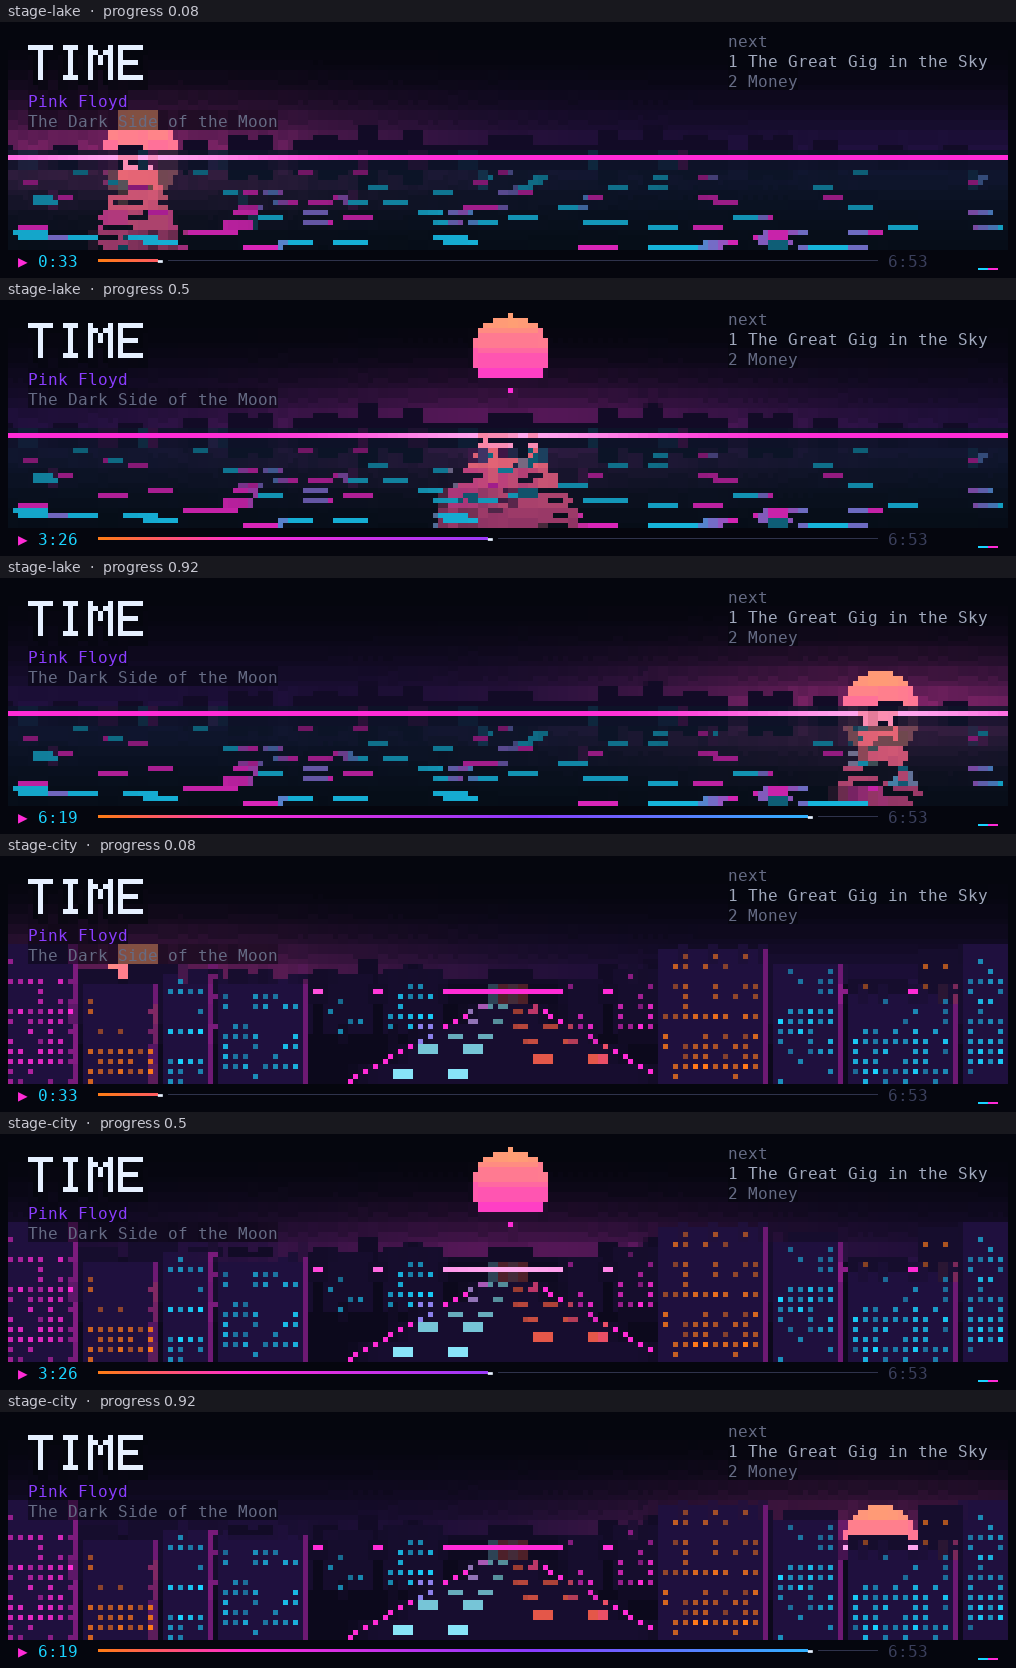
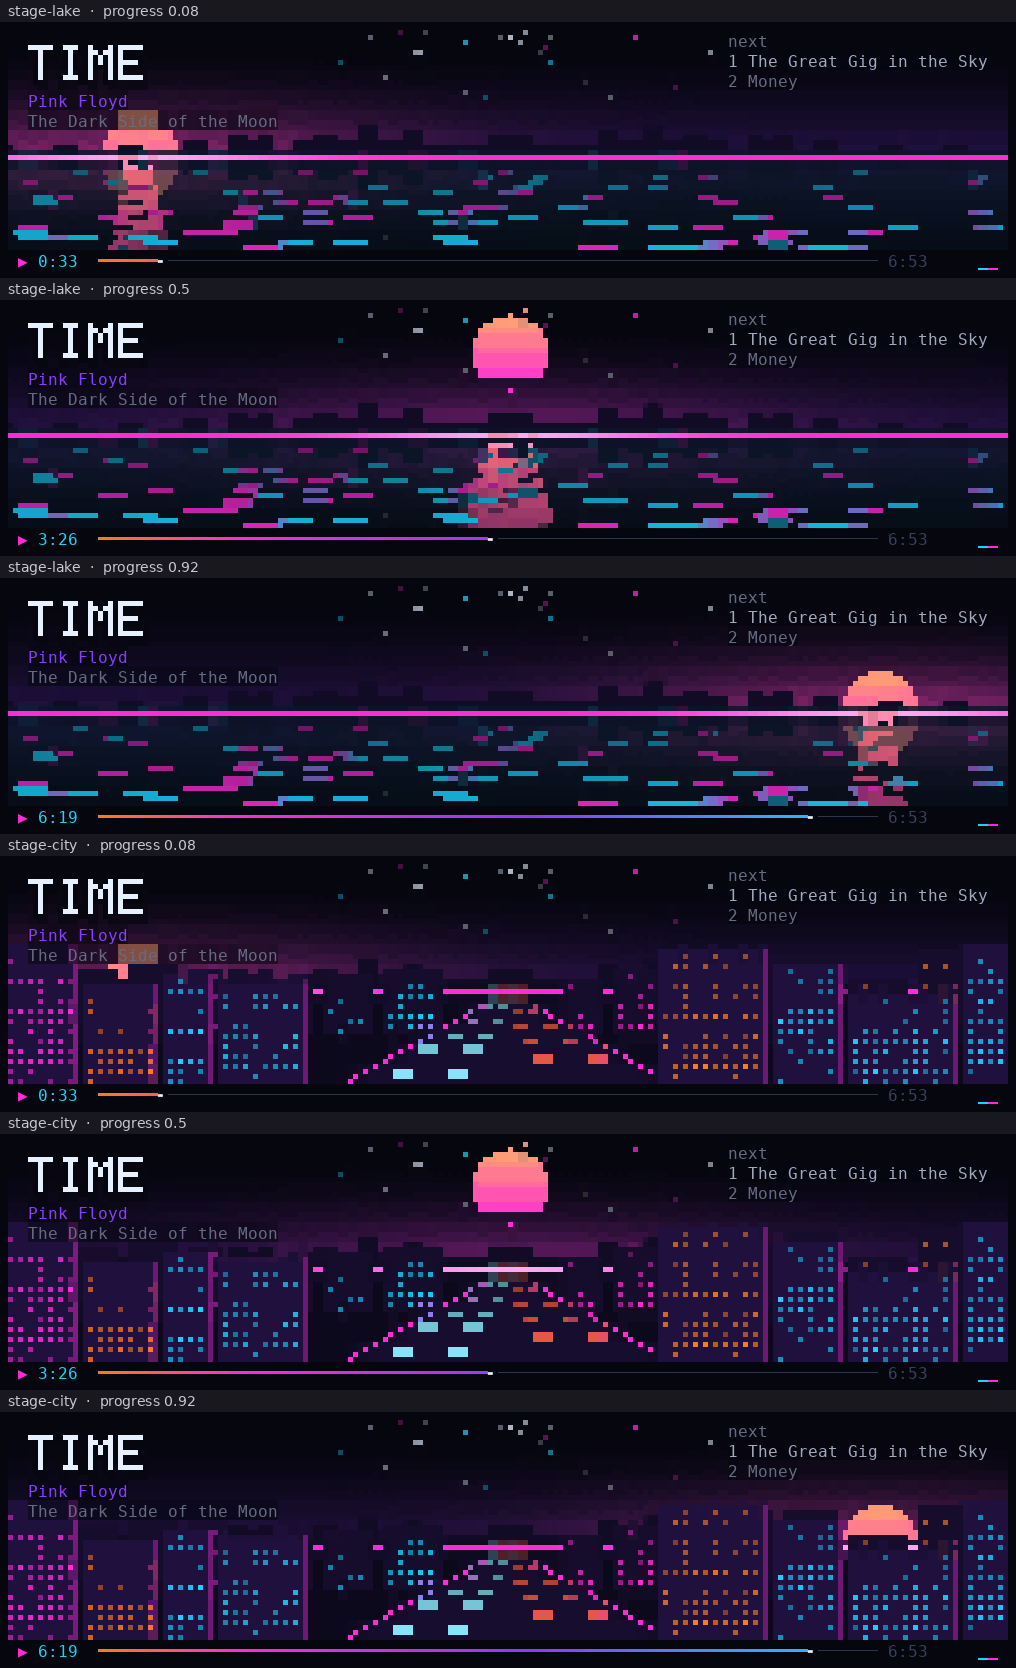
Sketches: stage, the lake, tall
The lake is the ground. Tall, the title grows with the stage (a font dot
n x n dots, n = rows / 11, 1 to 4), stars twinkle in the dark upper sky
clear of the words and the sun, and the sun's column on the water stays
narrow. Rendered at 20x100, 30x120 and 45x160.

Claude-Session: https://claude.ai/code/session_01TZXgEMdNRWFEXZ2qesZS2k

diff --git a/sketches/sketch.c b/sketches/sketch.c
@@ -612,6 +612,9 @@ static float n2(int a, int b) { return hash(a * 7919 + b * 104729 + 17); }
 
 /* The scene above the ground: sky, the sun on its arc, mountains, the
  * horizon. Returns through *sx, *sy, *r where the sun is. */
+/* where the words are, in cells, for the stars to keep clear of */
+static int clear_rows, clear_left, clear_right;
+
 static void stage_sky(uint32_t *pix, int W, int hz, float p, float k, int f, float *psx, float *psy, float *pr)
 {
 	/* the sun's arc: rising at the left as the track starts, highest half
@@ -638,6 +641,16 @@ static void stage_sky(uint32_t *pix, int W, int hz, float p, float k, int f, flo
 			}
 			pix[y * W + x] = px(scale(c, k), 255);
 		}
+	/* stars, in the dark upper sky, twinkling; none in front of the sun */
+	for (int i = 0; i < W * hz / 90; i++) {
+		int x = (int)(n2(i, 1) * (float)W), y = (int)(n2(i, 2) * n2(i, 3) * (float)hz * 0.75f);
+		float ddx = ((float)x - sx) / 2.0f, ddy = (float)y - sy;
+		if (ddx * ddx * 4.0f + ddy * ddy <= r * r * 1.3f) continue;
+		if (y / 4 <= clear_rows && (x / 2 <= clear_left + 1 || x / 2 >= clear_right - 1)) continue;
+		float tw = 0.5f + 0.5f * sinf((float)f * (0.2f + 0.5f * n2(i, 4)) + 6.28f * n2(i, 5));
+		struct rgb c = n2(i, 6) > 0.8f ? CYAN : n2(i, 6) > 0.6f ? MAGENTA : FG;
+		pix[y * W + x] = px(scale(mix(BG, c, (0.25f + 0.55f * tw) * (1.0f - (float)y / (float)hz)), 1.0f), 255);
+	}
 	for (int x = 0; x < W; x++) { /* mountains: the bands, about the sun, a silhouette */
 		float d = fabsf((float)x - (float)W * 0.5f) / ((float)W * 0.5f);
 		int b = (int)(d * 23.0f);
@@ -676,7 +689,7 @@ static void ground_lake(uint32_t *pix, int W, int H, int hz, float sx, float sy,
 		/* the sun's column: streaks of its colour, broken by the waves */
 		if (sy - r < (float)hz) {
 			float above = ((float)hz - (sy - r)) / (2 * r); /* how much of it is up */
-			float w = r * (0.5f + 1.6f * u) * (above > 1 ? 1 : above);
+			float w = r * (0.45f + 0.75f * u) * (above > 1 ? 1 : above);
 			for (int x = (int)(sx - w); x <= (int)(sx + w); x++) {
 				if (x < 0 || x >= W) continue;
 				float on = n2(y, (int)((float)x / 3.0f + drift * (0.5f + u)));
@@ -780,9 +793,20 @@ static void stage_with(struct notcurses *nc, struct ncplane *std, struct ncplane
 	float p = getenv("STAGE_P") ? (float)atof(getenv("STAGE_P")) : progress(f);
 	float k = paused(f) ? 0.70f + 0.30f * breath(f) : 1.0f;
 	int W = (int)cols * 2, H = ((int)rows - 1) * 4;
+	/* the title grows with the stage: a font dot is sc x sc dots, a letter
+	 * 3sc cells by 2sc rows; the artist and album under it; the horizon
+	 * below all of the words */
+	int sc = (int)rows / 11;
+	if (sc < 1) sc = 1;
+	if (sc > 4) sc = 4;
+	int words = 2 * sc + 3; /* rows the words take */
 	int hz = (int)((float)H * 0.58f);
-	if (hz < 5 * 4 + 1) hz = 5 * 4 + 1;
+	if (hz < words * 4 + 1) hz = words * 4 + 1;
 	ncplane_erase(std);
+	clear_rows = words - 1;
+	clear_left = 2 + (int)strlen(STAGE_ALBUM) > 2 + 3 * sc * (int)strlen(STAGE_TITLE) ? 2 + (int)strlen(STAGE_ALBUM)
+	                                                                                  : 2 + 3 * sc * (int)strlen(STAGE_TITLE);
+	clear_right = (int)cols - 28;
 	uint32_t *pix = calloc((size_t)W * H, 4);
 	float sx, sy, r;
 	stage_sky(pix, W, hz, p, k, f, &sx, &sy, &r);
@@ -794,13 +818,14 @@ static void stage_with(struct notcurses *nc, struct ncplane *std, struct ncplane
 	for (int pass = 0; pass < 2; pass++)
 		for (const char *c = STAGE_TITLE; *c; c++) {
 			const unsigned char *g = glyph(*c);
-			int cx = tx + 6 * (int)(c - STAGE_TITLE);
+			int cx = tx + 6 * sc * (int)(c - STAGE_TITLE);
 			for (int gy = 0; gy < 7; gy++)
 				for (int gx = 0; gx < 5; gx++) {
 					if (!(g[gy] >> (4 - gx) & 1)) continue;
-					for (int oy = pass ? 0 : -1; oy <= (pass ? 0 : 1); oy++)
-						for (int ox = pass ? 0 : -1; ox <= (pass ? 0 : 1); ox++) {
-							int X = cx + gx + ox, Y = ty + gy + oy;
+					for (int oy = pass ? 0 : -1; oy <= (pass ? 0 : 1) + sc - 1 + (pass ? 0 : 0); oy++)
+						for (int ox = pass ? 0 : -1; ox <= (pass ? 0 : 1) + sc - 1; ox++) {
+							int X = cx + gx * sc + ox, Y = ty + gy * sc + oy;
+							if (pass && (ox >= sc || oy >= sc)) continue;
 							if (X >= 0 && Y >= 0 && X < W && Y < H) pix[Y * W + X] = px(pass ? FG : BG, 255);
 						}
 				}
@@ -817,9 +842,9 @@ static void stage_with(struct notcurses *nc, struct ncplane *std, struct ncplane
 	ncplane_set_bg_rgb8(txt, (unsigned)BG.r, (unsigned)BG.g, (unsigned)BG.b);
 	ncplane_set_bg_alpha(txt, NCALPHA_BLEND);
 	fg(txt, VIOLET);
-	ncplane_putstr_yx(txt, 3, 2, ARTIST);
+	ncplane_putstr_yx(txt, words - 2, 2, ARTIST);
 	fg(txt, mix(DIM, FG, 0.25f));
-	ncplane_printf_yx(txt, 4, 2, "%s", STAGE_ALBUM);
+	ncplane_printf_yx(txt, words - 1, 2, "%s", STAGE_ALBUM);
 	int nx = (int)cols - 28;
 	fg(txt, mix(DIM, FG, 0.25f));
 	ncplane_putstr_yx(txt, 0, nx, "next");

diff --git a/sketches/README.md b/sketches/README.md
@@ -47,7 +47,17 @@ has both at the start of a track, half way and near the end.
   over the scene (`NCALPHA_BLEND`).
 - A dashboard on the last row: state, time, a bar in the sky's colours,
   the duration, the L/R meter.
-- The words keep rows 0–4 at any height; the horizon is below them.
+- The words keep their rows at any height; the horizon is below them.
+
+**Chosen: lake**, not switchable. Tall (`out/notmmtui-stage-tall.gif` at
+30×120; `out/notmmtui-stage-tall20.png`, `-tall30`, `-tall45` at three
+points in a track):
+
+- The title grows with the stage: a font dot is n×n dots, n = rows / 11
+  (1 to 4), so a letter is 3n cells by 2n rows.
+- Stars in the dark upper sky, twinkling, keeping clear of the words and
+  the sun.
+- The sun's column on the water stays narrow as the lake gets tall.
 
     STAGE_P=0.5 python3 run.py 12 100 stage-lake 21 out/set.dump   # at a given progress
 
